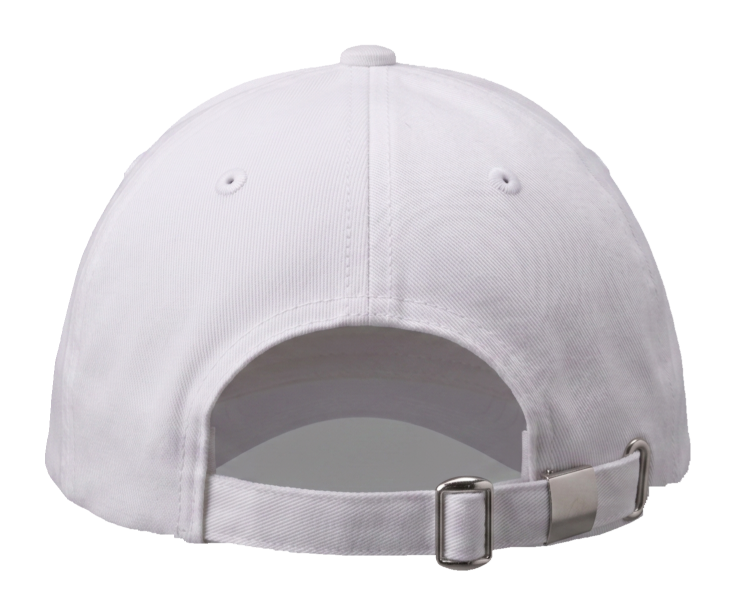
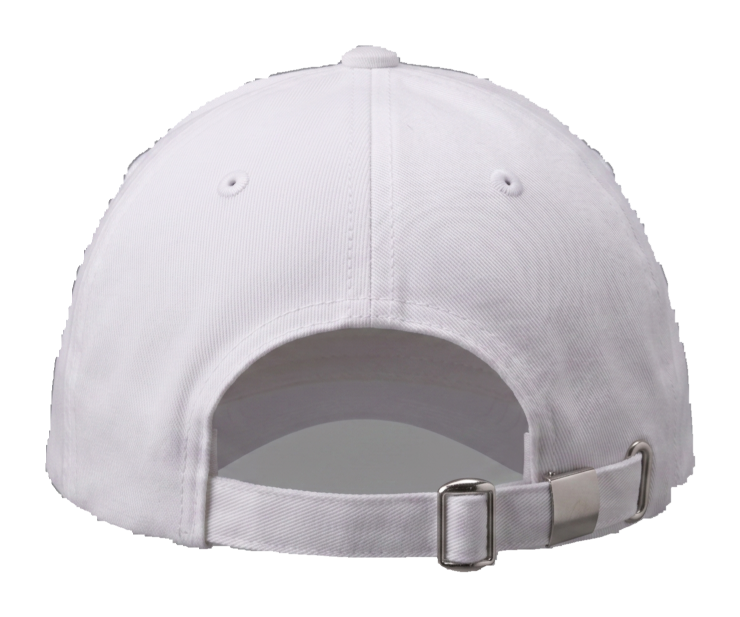
側面ビューの改善3点（版面枠の非表示・写真の欠け修復・左クリック限定ドラッグ）
- 袖側面ビュー（sleeveL/sleeveR）では点線の版面枠とラベルを非表示に。
  版面自体（配置範囲・採寸・クリップ・スナップガイド）は従来通り機能する
- 側面・背面写真の切り抜きを全面改善：影のかかった肩・裾の欠けを修復
  （フラッド判定を局所分散のみに変更し、焼き込み方眼の除去は空間ガード付き
  後処理へ分離。クロージング+穴埋め+erodeでハロー除去）
- Tシャツ左側面は欠けのない右側面の鏡像を採用（左右対称のため）
- 袖・キャップ側面の版面（photoAreas）を写真の袖・クラウン位置に合わせて再調整
- マウスのドラッグ移動は左ボタンのみに限定（右・中クリックでは動かない。
  タッチ・ペン操作には影響なし）
- CLAUDE.md の背景透過パイプライン記述を最新手順に更新

Claude-Session: https://claude.ai/code/session_01LhRttYfEWBqeYN1h83pqAw

diff --git a/js/config.js b/js/config.js
@@ -223,8 +223,8 @@ const PRODUCTS = [
       { id: "front",   name: "前面",   view: "front", x: 258, y: 250, w: 210, h: 250, mmW: 300, mmH: 360 },
       { id: "chest",   name: "左胸",   view: "front", x: 398, y: 250, w: 78,  h: 78,  mmW: 100, mmH: 100 },
       { id: "back",    name: "背面",   view: "back",  x: 235, y: 200, w: 230, h: 300, mmW: 300, mmH: 384 },
-      { id: "sleeveL", name: "左袖",   view: "sleeveL", x: 210, y: 235, w: 130, h: 120, mmW: 80, mmH: 64 },
-      { id: "sleeveR", name: "右袖",   view: "sleeveR", x: 360, y: 235, w: 130, h: 120, mmW: 80, mmH: 64 },
+      { id: "sleeveL", name: "左袖",   view: "sleeveL", x: 250, y: 170, w: 130, h: 104, mmW: 80, mmH: 64 },
+      { id: "sleeveR", name: "右袖",   view: "sleeveR", x: 320, y: 170, w: 130, h: 104, mmW: 80, mmH: 64 },
     ],
     printAreas: [
       { id: "front",   name: "前面",   view: "front", x: 225, y: 235, w: 250, h: 300, mmW: 300, mmH: 360 },
@@ -259,8 +259,8 @@ const PRODUCTS = [
       { id: "front",   name: "前面",   view: "front", x: 258, y: 250, w: 210, h: 250, mmW: 300, mmH: 360 },
       { id: "chest",   name: "左胸",   view: "front", x: 398, y: 250, w: 78,  h: 78,  mmW: 100, mmH: 100 },
       { id: "back",    name: "背面",   view: "back",  x: 235, y: 200, w: 230, h: 300, mmW: 300, mmH: 384 },
-      { id: "sleeveL", name: "左袖",   view: "sleeveL", x: 210, y: 235, w: 130, h: 120, mmW: 80, mmH: 64 },
-      { id: "sleeveR", name: "右袖",   view: "sleeveR", x: 360, y: 235, w: 130, h: 120, mmW: 80, mmH: 64 },
+      { id: "sleeveL", name: "左袖",   view: "sleeveL", x: 250, y: 170, w: 130, h: 104, mmW: 80, mmH: 64 },
+      { id: "sleeveR", name: "右袖",   view: "sleeveR", x: 320, y: 170, w: 130, h: 104, mmW: 80, mmH: 64 },
     ],
     printAreas: [
       { id: "front",   name: "前面",   view: "front", x: 225, y: 235, w: 250, h: 300, mmW: 300, mmH: 360 },
@@ -294,8 +294,8 @@ const PRODUCTS = [
       { id: "chest",   name: "左胸",   view: "front", x: 384, y: 232, w: 84,  h: 84,  mmW: 100, mmH: 100 },
       { id: "front",   name: "前面",   view: "front", x: 238, y: 296, w: 224, h: 214, mmW: 280, mmH: 255 },
       { id: "back",    name: "背面",   view: "back",  x: 240, y: 205, w: 220, h: 300, mmW: 300, mmH: 372 },
-      { id: "sleeveL", name: "左袖",   view: "sleeveL", x: 215, y: 235, w: 130, h: 115, mmW: 80,  mmH: 63 },
-      { id: "sleeveR", name: "右袖",   view: "sleeveR", x: 355, y: 235, w: 130, h: 115, mmW: 80,  mmH: 63 },
+      { id: "sleeveL", name: "左袖",   view: "sleeveL", x: 315, y: 180, w: 130, h: 102, mmW: 80,  mmH: 63 },
+      { id: "sleeveR", name: "右袖",   view: "sleeveR", x: 255, y: 180, w: 130, h: 102, mmW: 80,  mmH: 63 },
     ],
     printAreas: [
       { id: "chest",   name: "左胸",   view: "front", x: 388, y: 235, w: 85,  h: 85,  mmW: 100, mmH: 100 },
@@ -328,8 +328,8 @@ const PRODUCTS = [
     photoAreas: [
       { id: "front",   name: "前面",   view: "front", x: 250, y: 285, w: 210, h: 170, mmW: 260, mmH: 200 },
       { id: "back",    name: "背面",   view: "back",  x: 245, y: 235, w: 210, h: 250, mmW: 300, mmH: 360 },
-      { id: "sleeveL", name: "左袖",   view: "sleeveL", x: 235, y: 250, w: 120, h: 200, mmW: 75,  mmH: 140 },
-      { id: "sleeveR", name: "右袖",   view: "sleeveR", x: 345, y: 250, w: 120, h: 200, mmW: 75,  mmH: 140 },
+      { id: "sleeveL", name: "左袖",   view: "sleeveL", x: 300, y: 200, w: 120, h: 200, mmW: 75,  mmH: 140 },
+      { id: "sleeveR", name: "右袖",   view: "sleeveR", x: 280, y: 200, w: 120, h: 200, mmW: 75,  mmH: 140 },
     ],
     printAreas: [
       { id: "front",   name: "前面",   view: "front", x: 240, y: 300, w: 220, h: 170, mmW: 260, mmH: 200 },
@@ -359,12 +359,12 @@ const PRODUCTS = [
     methods: ["embroidery", "silk"],
     photoAreas: [
       { id: "capFront", name: "フロント", view: "front",   x: 285, y: 250, w: 150, h: 130, mmW: 130, mmH: 84 },
-      { id: "capSide",  name: "サイド",   view: "capSide", x: 250, y: 280, w: 150, h: 85,  mmW: 70,  mmH: 46 },
+      { id: "capSide",  name: "サイド",   view: "capSide", x: 290, y: 262, w: 150, h: 85,  mmW: 70,  mmH: 46 },
       { id: "capBack",  name: "バック",   view: "back",    x: 275, y: 300, w: 150, h: 95,  mmW: 90,  mmH: 49 },
     ],
     printAreas: [
       { id: "capFront", name: "フロント", view: "front",   x: 265, y: 300, w: 170, h: 110, mmW: 130, mmH: 84 },
-      { id: "capSide",  name: "サイド",   view: "capSide", x: 250, y: 280, w: 150, h: 85,  mmW: 70,  mmH: 46 },
+      { id: "capSide",  name: "サイド",   view: "capSide", x: 290, y: 262, w: 150, h: 85,  mmW: 70,  mmH: 46 },
       { id: "capBack",  name: "バック",   view: "back",    x: 290, y: 330, w: 120, h: 65,  mmW: 90,  mmH: 49 },
     ],
   },

diff --git a/js/editor.js b/js/editor.js
@@ -453,7 +453,11 @@
 
     /* プリント範囲の枠線 */
     let areaMarkup = "";
-    if (!state.preview) {
+    /* 袖の側面ビューは写真に対して矩形枠が不自然に見えるため、点線枠と
+     * ラベルを表示しない（版面自体は生きていて、配置・採寸・クリップは従来通り。
+     * ドラッグ中の中央スナップガイドも従来通り出る） */
+    const hideAreaFrame = String(view || "").indexOf("sleeve") === 0;
+    if (!state.preview && !hideAreaFrame) {
       areaMarkup = areasInView
         .map((a) => {
           const active = area && a.id === area.id;
@@ -563,6 +567,9 @@
 
   function onPointerDown(evt) {
     if (!state.product || state.preview) return;
+    /* マウスは左ボタンのみ受け付ける（右・中クリックでのドラッグ移動を防ぐ。
+     * タッチ・ペンは button が 0/-1 のため影響しない） */
+    if (evt.pointerType === "mouse" && evt.button !== 0) return;
     pointers.set(evt.pointerId, { x: evt.clientX, y: evt.clientY });
     if (startPinchIfTwo()) { capture(evt); evt.preventDefault(); return; }
 

diff --git a/CLAUDE.md b/CLAUDE.md
@@ -51,9 +51,12 @@
    `bg_white3.mjs`（前面用）が原型。
    - 判定は**局所分散（5×5窓の輝度std・積分画像で計算）**が主役: 背景（AI生成の滑らかなグラデ）は std<1.1、
      生地テクスチャは std≥1.3。白い製品×薄グレー背景でも分離できる（明度・背景色距離では不可能）。
-   - 背景に薄い方眼が焼き込まれた写真は「背景同色（dist<14）かつ std<12 は通す」条件をフラッドに追加。
-   - 後処理: キャプション文字/透かし→最大連結成分のみ残す、細部→クロージング(16)→囲まれた穴埋め→
-     オープニング(W/200)→シェーブ(W/700)。**フェザーは白製品にNG**（濃色時に白フチが出る）→縮小AAで代替。
+   - フラッドの通過条件は **std<1.3 のみ**（背景色距離を混ぜると影の袖が食われる）。焼き込み方眼は
+     フラッド後に**空間ガード付き**で除去: 「製品らしい画素（背景色距離≥25）を8px膨張した領域」の外側だけ、
+     dist<14&&std<12・明るい無彩色を透明化。行スパン補完は試して**撤去済み**（迷い込みブロックで灰色の階段が出る）。
+   - 後処理: キャプション文字/透かし→最大連結成分のみ残す→クロージング(10)→囲まれた穴埋め
+     （キャップ背面はアジャスター穴があるため `noSpanFill` で除外）→erode(2)でハロー削り。
+     **フェザーは白製品にNG**（濃色時に白フチが出る）→半解像度縮小AAで代替。bboxクロップ（7%パディング）。
    - どうしても分離不能な局所欠陥は `eraseRects`（ソース座標）でピンポイント消去、または
      **左右対称商品なら反対側面の鏡像を採用**（Tシャツ左側面は右側面の鏡像。正当な常套手段）。
 3. `baseLum` はスクリプトが出力する値を `config.js` に転記。photoAreas はオーバーレイ（scratchpad `calib_sides.mjs`）で目視調整。
